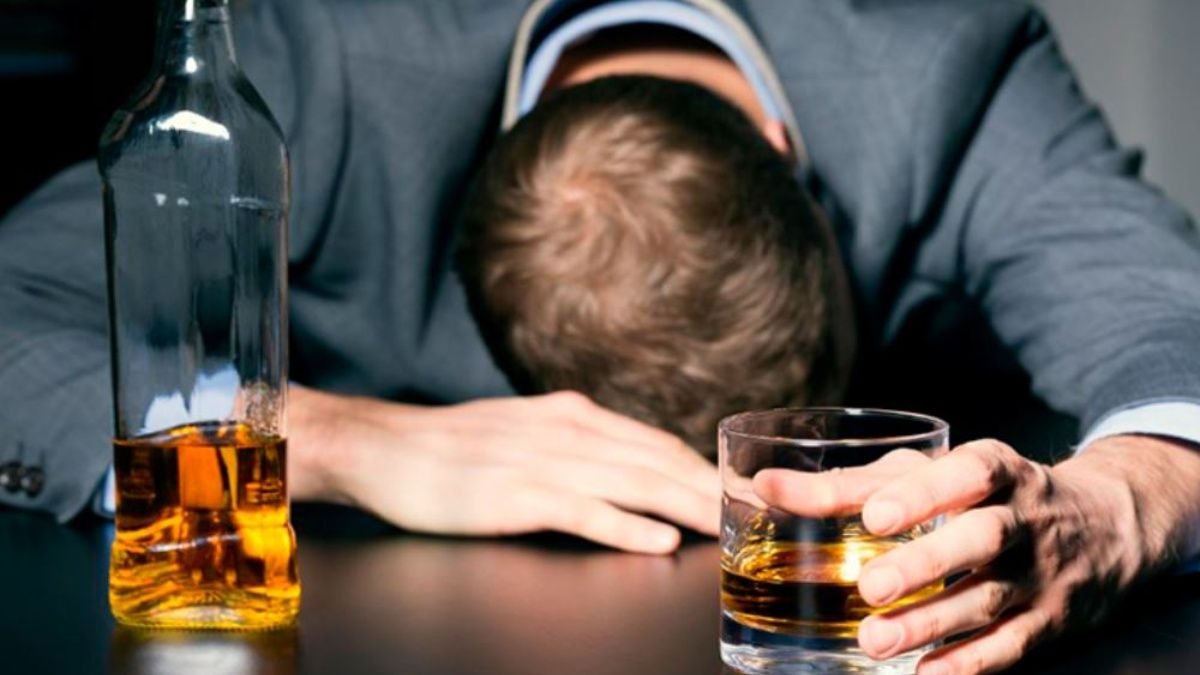
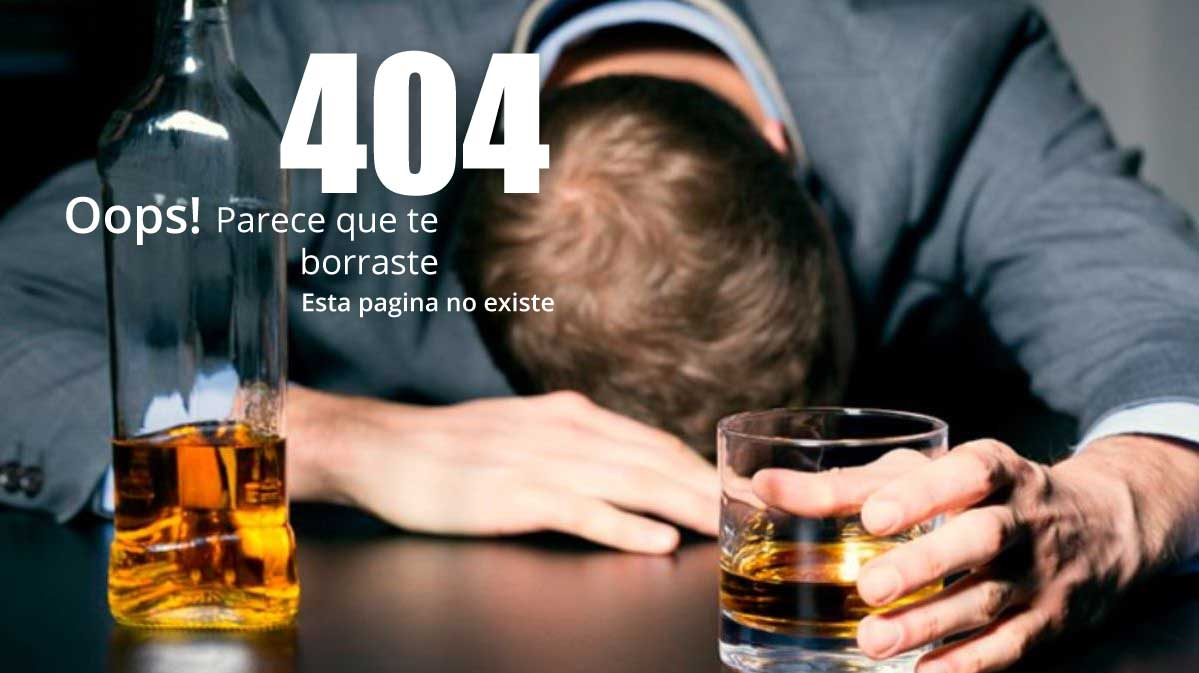
404

diff --git a/src/app/components/not-found/not-found.component.html b/src/app/components/not-found/not-found.component.html
@@ -3,24 +3,29 @@
 <div [ngStyle]="{'margin-left.rem': !sidebar? '0': '16'}" class="move">
 
   <div class="flex bg-black">
-    <a href="/bars"><img src="assets/images/Drinkly-2.png" alt="logo_drinkly"
-        class="object-scale-down h-16 mx-auto ml-8" /></a>
+    <div class="ml-20 my-1">
+      <a href="/"
+        ><img
+          src="assets/images/Drinkly-2.png"
+          alt="logo_drinkly"
+          class="object-scale-down h-16 transition duration-500 ease-in-out transform  hover:scale-110"
+      /></a>  
+      </div>
   </div>
             <div
               style="background-image: url('assets/images/404bg.jpg');"
-              class="my-6 pt-24 pb-64 mt-48 bg-cover bg-blue-700 m-auto max-w-5xl self-center flex items-center rounded-lg shadow"
+              class="my-6 pt-24 pb-64 mt-32 bg-cover bg-blue-700 m-auto max-w-5xl self-center flex items-center rounded-lg shadow"
             >
               <div
-                class="p-10 ml-20 shadow-2xl rounded-lg items-center"
-                style="background-color: white;"
+                class="p-10 ml-20 rounded-lg items-center"
               >
-                <h1 class="font-serif subpixel-antialiased text-xl text-black">
+                <h1 class="font-serif subpixel-antialiased text-xl text-transparent">
                   <h1 class="text-4xl">Error 404:</h1>
                   Ups! Parece que esta ruta no existe...
                 </h1>
                 <button
                   [routerLink]="'/home'"
-                  class="ml-20 mt-5 font-serif subpixel-antialiased text-xl bg-orange-500 hover:bg-orange-600 text-black px-2 rounded-md"
+                  class="ml-48 mt-40 bg-orange-500 hover:bg-orange-700 text-white font-normal py-2 px-4 rounded"
                 >
                   Volver al inicio
                 </button>
